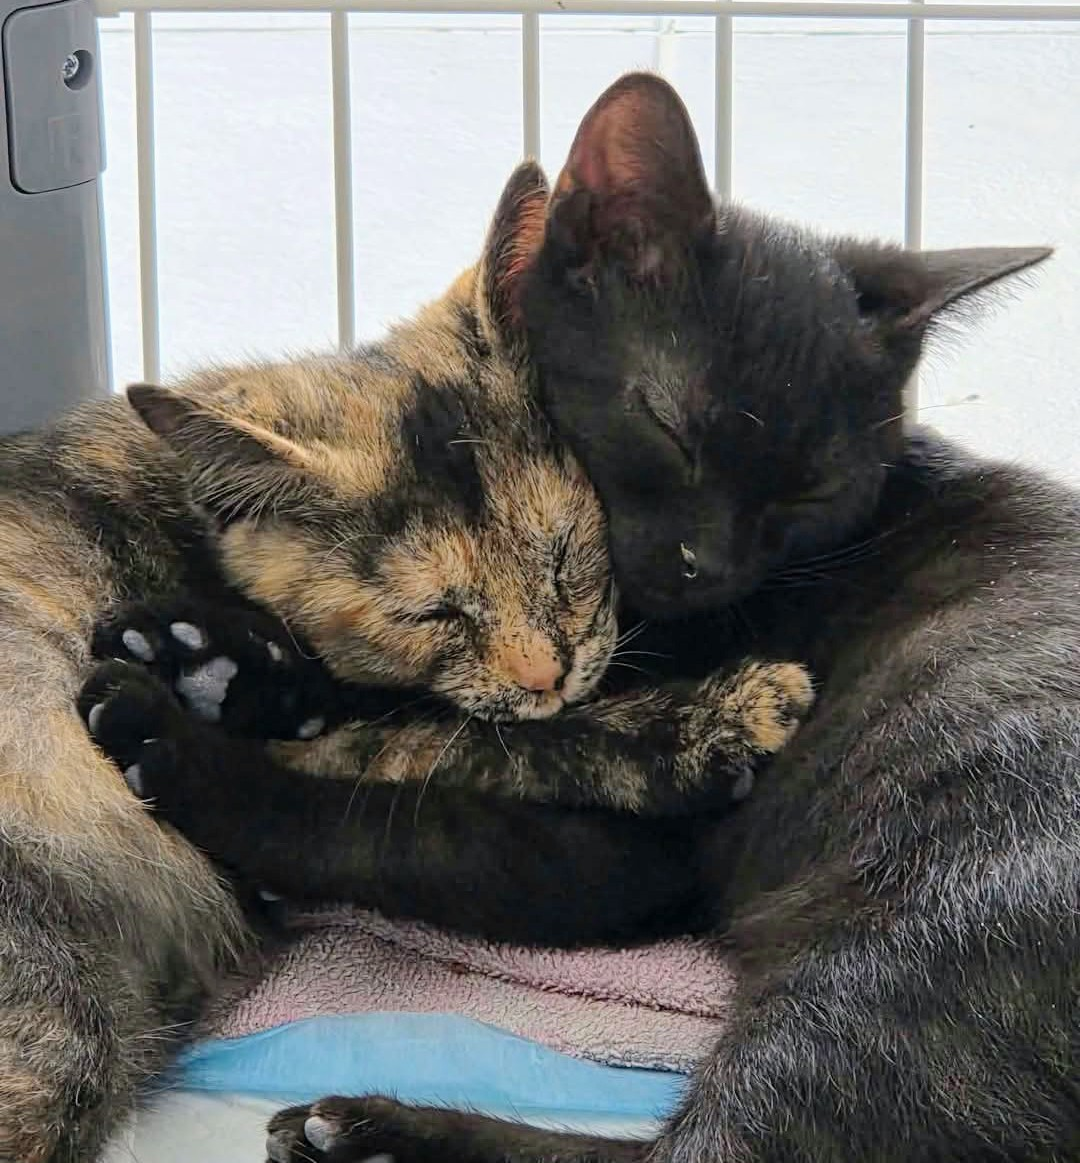
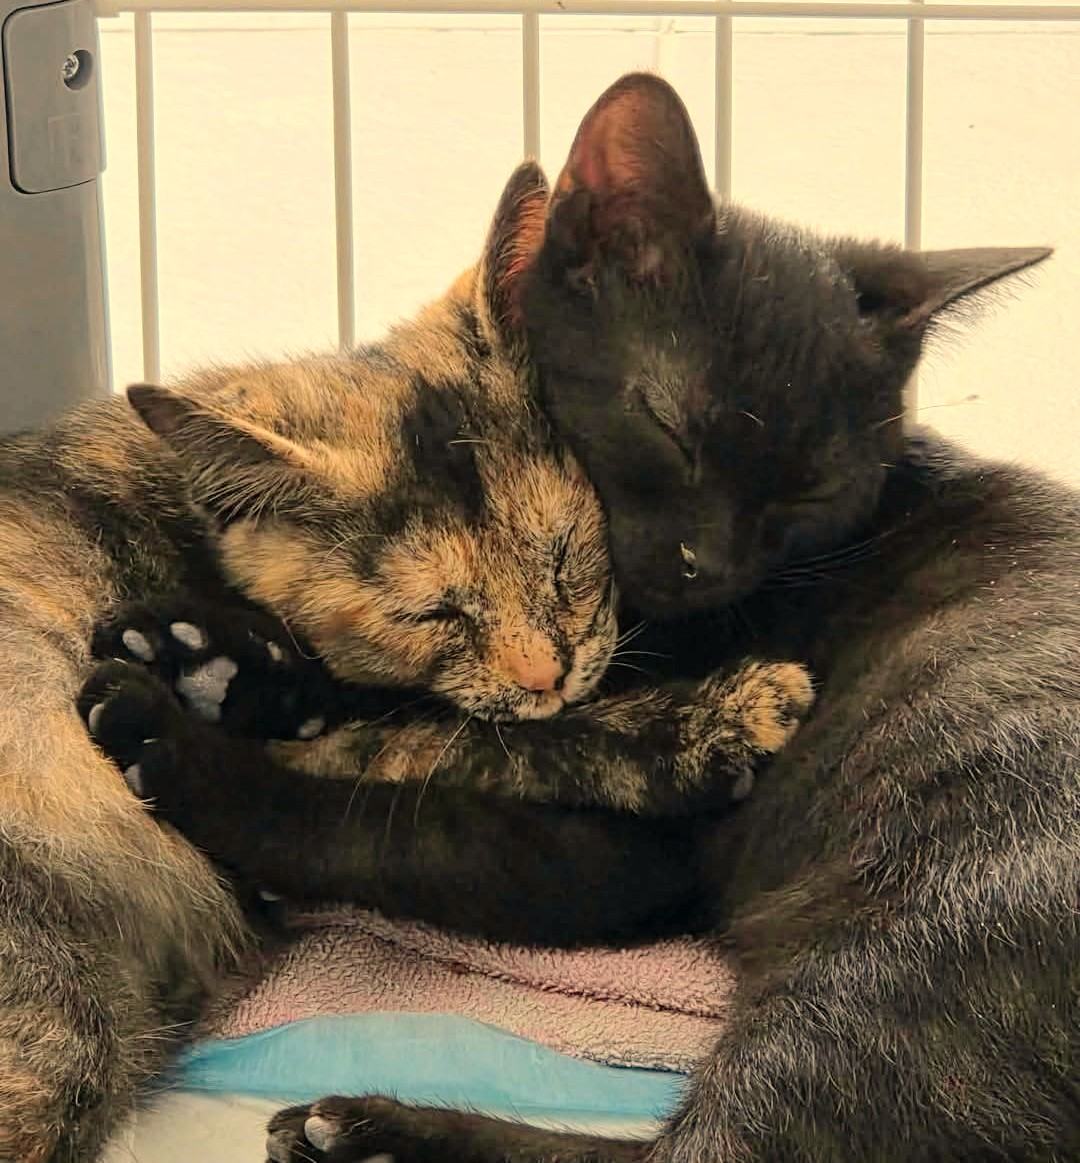
mise à jour photo présentation

diff --git a/index.html b/index.html
@@ -67,7 +67,7 @@
           <p>Son souhait : qu'ils puissent vivre leur vie dans la joie et en bonne santé.</p>
           <a class="text-link" href="#contact">Prendre contact <span aria-hidden="true">→</span></a>
         </div>
-        <img class="about-photo" src="photo-presentation.png" alt="Illustration de bénévoles et de plusieurs chats dans un jardin">
+        <img class="about-photo" src="photo-presentation.jpg" alt="Deux chats blottis l'un contre l'autre">
         <p class="about-footnote">Identifiant RNA : W272002242</p>
       </div>
     </section>

diff --git a/README.md b/README.md
@@ -12,7 +12,7 @@ Ouvrez `index.html` dans un navigateur. Dans VS Code, l'extension Live Server pe
 - Couleurs, typographie, mise en page et responsive : `style.css`.
 - Logo utilisé dans l'en-tête : `logo.jpeg`. `logo_officiel.jpeg` en est la copie de sauvegarde actuelle. Pour changer le logo plus tard, remplacer `logo.jpeg` par le nouveau visuel en gardant ce nom : le HTML n'aura pas besoin d'être modifié.
 - Ancien logo noir et blanc : `logo_legacy.jpeg`.
-- Visuel d'accueil : `photo-accueil.png`. Visuel de présentation : `photo-presentation.png`. Ces fichiers sont indépendants et chacun peut être remplacé en gardant le même nom, sans modifier le HTML.
+- Visuel d'accueil : `photo-accueil.png`. Photo de présentation : `photo-presentation.jpg`. Ces fichiers sont indépendants et chacun peut être remplacé en gardant le même nom, sans modifier le HTML.
 - Icône temporaire de l'onglet : `favicon.svg`. Elle pourra être remplacée par le favicon officiel si l'association en fournit un.
 - Photos supplémentaires : déposer les fichiers dans `images/` et ajouter des éléments `<img>` avec un texte alternatif pertinent dans `index.html`. Utiliser uniquement des visuels dont l'association possède les droits.
 

diff --git a/JOURNAL-DES-MODIFICATIONS.md b/JOURNAL-DES-MODIFICATIONS.md
@@ -29,6 +29,7 @@ Ce fichier garde une trace des changements apportés au site. Ajouter une entré
 - Ajout de l'option de demande de reçu fiscal par message privé Facebook, en complément des coordonnées de la section Contact.
 - Adoption du texte proposé pour la demande de reçu fiscal, avec liens directs vers Facebook et la section Contact.
 - Déplacement des dix fichiers du site dans le sous-dossier `chatsansfamilles`, prêt à devenir la racine du nouveau dépôt.
+- Utilisation de `photo-presentation.jpg` dans la présentation et mise à jour de son texte alternatif pour décrire les deux chats photographiés.
 - Ajustement de la palette du site et de la favicon d'après l'infographie fiscale : crème et vert profond dominants, rose en accent.
 - Rééquilibrage de cette palette à la demande de l'association : vert sauge plus discret, pied de page charbon et fonds plus crème, tout en conservant le rose en accent.
 - Ajout du courriel officiel `chatsansfamilles@orange.fr` dans Contact avec un lien `mailto:` ; téléphone laissé à compléter.
